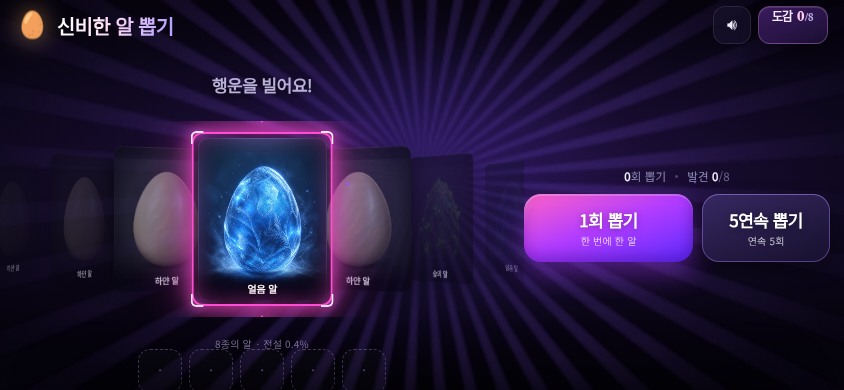
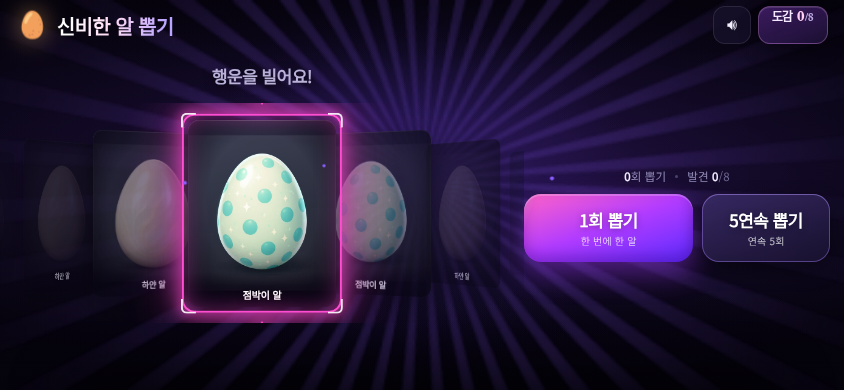
fix: 소형 화면·가로 모드에서 안내 문구와 결과 슬롯 겹침 정리

diff --git a/src/style.css b/src/style.css
@@ -1034,7 +1034,7 @@ body {
 /* landscape phones: stage left, controls right */
 @media (orientation: landscape) and (max-height: 560px) {
   :root {
-    --card-w: clamp(110px, 33vh, 172px);
+    --card-w: clamp(110px, 38vh, 180px);
   }
 
   #app {
@@ -1070,8 +1070,13 @@ body {
   }
 
   .results {
-    height: 0;
+    height: 46px;
     overflow: visible;
+  }
+
+  .results .slot,
+  .mini-odds {
+    display: none;
   }
 
   .roulette {
@@ -1083,6 +1088,12 @@ body {
   }
 
   .hint {
+    display: none;
+  }
+}
+
+@media (max-height: 700px) and (orientation: portrait) {
+  .mini-odds {
     display: none;
   }
 }
